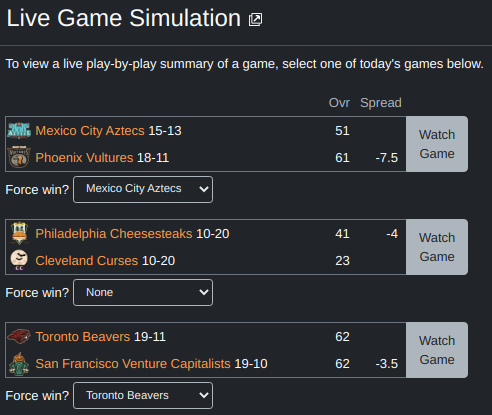
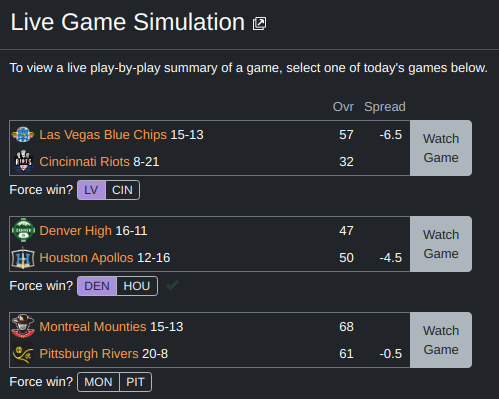
Update blog post

Changed region(s): [[0.0, 0.2406, 0.9756, 0.9925], [0.0, 0.1203, 1.0, 0.1805], [0.0, 0.0, 0.5488, 0.0902]]

diff --git a/basketball-gm.com/_posts/2020-10-18-force-win.md b/basketball-gm.com/_posts/2020-10-18-force-win.md
@@ -21,3 +21,19 @@ And on the schedule page you do it for any of a team's scheduled games, includin
 <img src="/files/force-win-2.png" class="img-responsive" />
 
 Behind the scenes, this works by repeatedly simulating the game until it finds a simulation with the desired result. After 500 simulations, if the selected team has not yet won, it starts gradually tilting the scales, similar to how home court advantage works. After 1500 simulations that are gradually more and more biased towards the selected team, you're almost guaranteed to have one turn out right.
+
+### Update, 2020-10-19
+
+Well I got some feedback since releasing this yesterday.
+
+Dooby Moogey on [Discord](https://discord.gg/caPFuM9O) found several little bugs that have been fixed. He also suggested I change the UI from a dropdown list to two buttons, which you can now see in the screenshots above.
+
+There was also a small outcry from the multiplayer community that this would make cheating too easy. It is true that cheating is always possible, but it is valid to be concerned with it being too easy. To deal with that, I made it visible in the UI when a game was rigged. In the schedule, the game log, and the scores at the top, rigged games show up in purple:
+
+<img src="/files/force-win-3.png" class="img-responsive" />
+
+And at the bottom of box scores, you can see the number of simulations it had to run to find one with the correct winner:
+
+<img src="/files/force-win-4.png" class="img-responsive" />
+
+If the text is green, the simulation was "pure", meaning it was one of the first 500 tries where no bias was added to the simulation.
